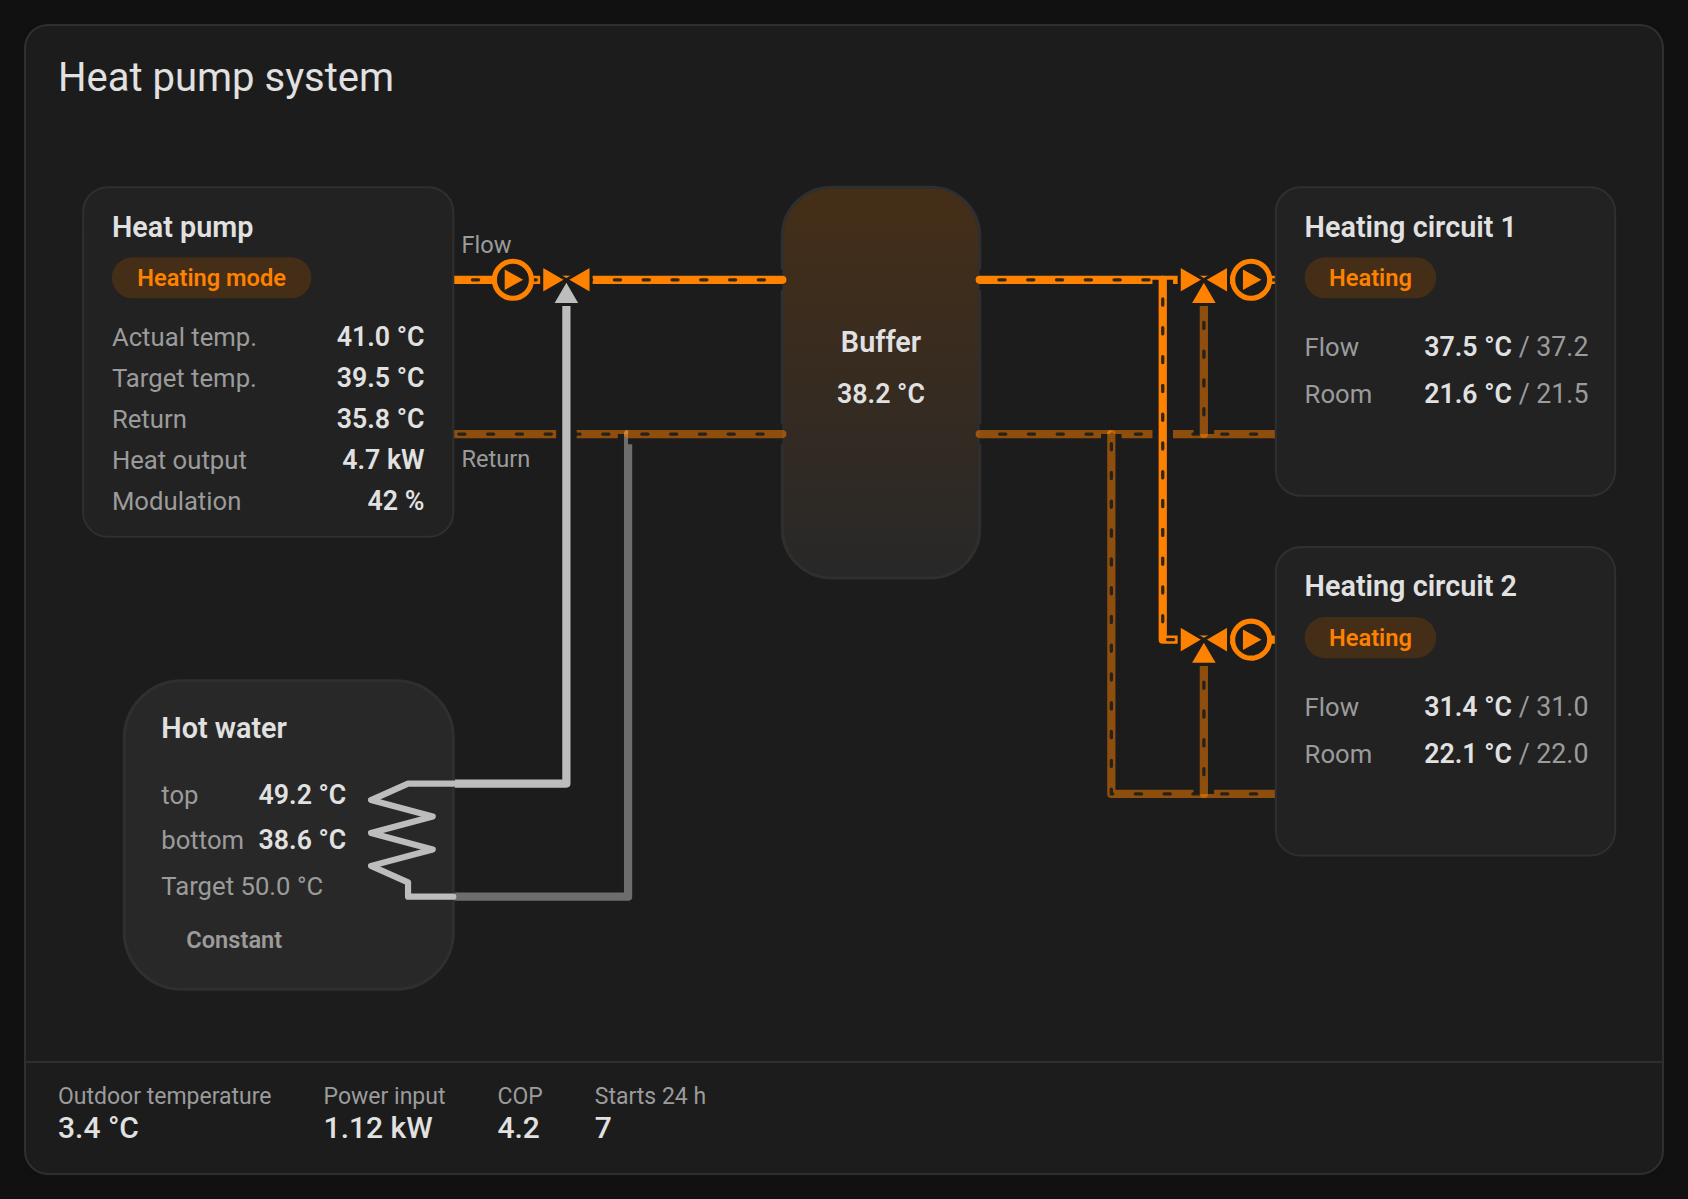
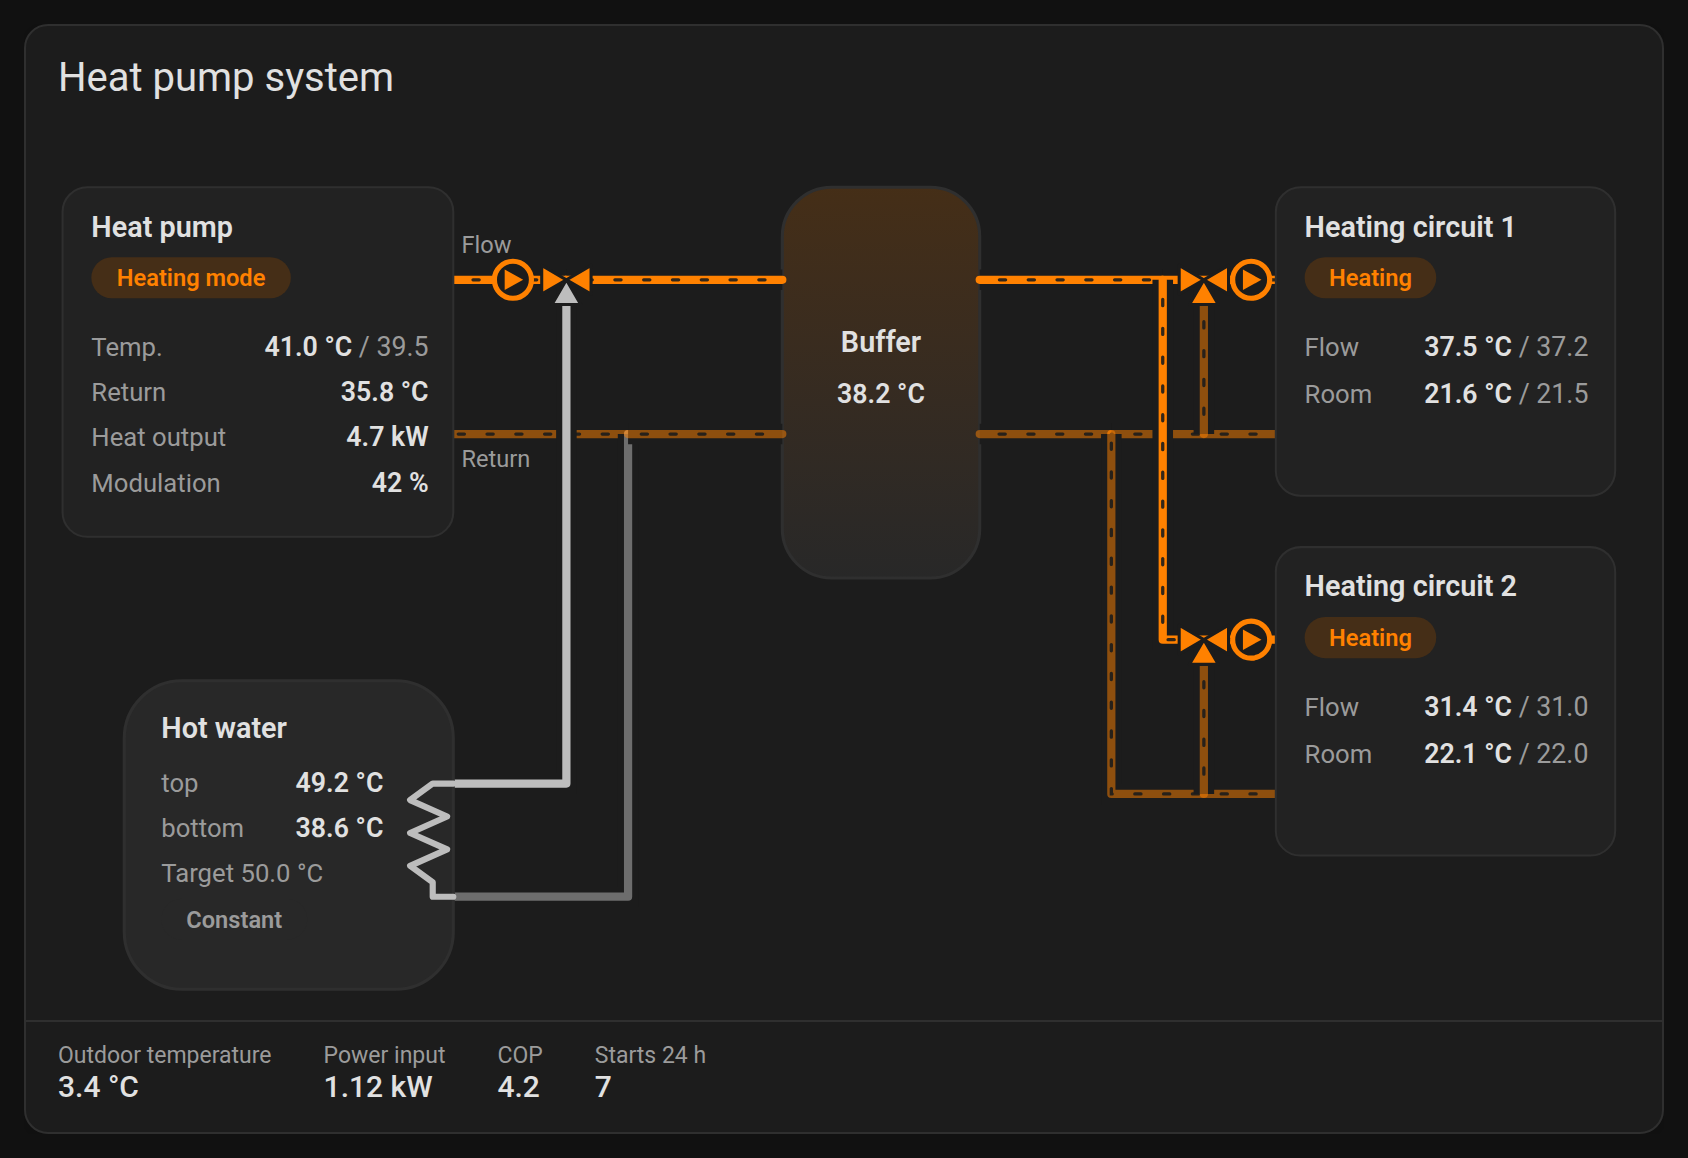
0.4.2b4: system diagram card, hot water temperature bottom (SF2)

diff --git a/custom_components/hoval_unofficial/frontend/hoval-schema-card.js b/custom_components/hoval_unofficial/frontend/hoval-schema-card.js
@@ -25,8 +25,7 @@ const TEXT = {
     circuit: "Heating circuit {n}",
     flow_short: "Flow",
     return_short: "Return",
-    actual_temp: "Actual temp.",
-    target_temp: "Target temp.",
+    temperature: "Temp.",
     return: "Return",
     heat_output: "Heat output",
     cooling_output: "Cooling output",
@@ -36,7 +35,9 @@ const TEXT = {
     top: "top",
     bottom: "bottom",
     middle: "middle",
+    actual_target: "Actual {actual}, target {target}",
     target: "Target",
+    dhw_target_tip: "Loading starts when the top falls below the target and ends when the bottom reaches it.",
     outdoor: "Outdoor temperature",
     power_input: "Power input",
     cop: "COP",
@@ -53,8 +54,7 @@ const TEXT = {
     circuit: "Heizkreis {n}",
     flow_short: "VL",
     return_short: "RL",
-    actual_temp: "Ist-Temperatur",
-    target_temp: "Soll-Temperatur",
+    temperature: "Temperatur",
     return: "Rücklauf",
     heat_output: "Wärmeleistung",
     cooling_output: "Kühlleistung",
@@ -64,7 +64,9 @@ const TEXT = {
     top: "oben",
     bottom: "unten",
     middle: "Mitte",
+    actual_target: "Ist {actual}, Soll {target}",
     target: "Soll",
+    dhw_target_tip: "Die Ladung startet, wenn oben unter den Sollwert fällt, und endet, wenn unten ihn erreicht.",
     outdoor: "Außentemperatur",
     power_input: "Leistungsaufnahme",
     cop: "COP",
@@ -249,19 +251,27 @@ class HovalSchemaCard extends HTMLElement {
 
   // ---- SVG building blocks ----------------------------------------------
 
+  // "actual / target": the target smaller and grey, explained by a tooltip.
+  _withTarget(value, target) {
+    return target !== undefined ? `${esc(value)}<tspan class="soft"> / ${esc(target)}</tspan>` : esc(value);
+  }
+
+  _targetTip(value, target) {
+    return target !== undefined ? this._t("actual_target", { actual: value, target }) : undefined;
+  }
+
   _row(x1, x2, y, label, value, target, entityId) {
     const text =
       `<text class="label" x="${x1}" y="${y}">${esc(label)}</text>` +
-      `<text class="value" x="${x2}" y="${y}" text-anchor="end">${esc(value)}` +
-      (target !== undefined ? `<tspan class="soft"> / ${esc(target)}</tspan>` : "") +
-      `</text>`;
-    return this._spot(x1 - 5, y - 14, x2 - x1 + 10, 20, entityId, text);
+      `<text class="value" x="${x2}" y="${y}" text-anchor="end">${this._withTarget(value, target)}</text>`;
+    return this._spot(x1 - 5, y - 14, x2 - x1 + 10, 20, entityId, text, this._targetTip(value, target));
   }
 
-  _spot(x, y, w, h, entityId, inner) {
-    if (!entityId) return inner;
+  _spot(x, y, w, h, entityId, inner, tip) {
+    const title = tip ? `<title>${esc(tip)}</title>` : "";
+    if (!entityId) return title ? `<g>${title}${inner}</g>` : inner;
     return (
-      `<g class="spot" tabindex="0" role="button" data-entity="${esc(entityId)}">` +
+      `<g class="spot" tabindex="0" role="button" data-entity="${esc(entityId)}">${title}` +
       `<rect class="hit" x="${x}" y="${y}" width="${w}" height="${h}" rx="5"/>${inner}</g>`
     );
   }
@@ -463,7 +473,7 @@ class HovalSchemaCard extends HTMLElement {
         this._pump(588, y, c.color);
     }
 
-    const height = Math.max(hasDhw ? 465 : 250, last ? last.top + CIRCUIT_HEIGHT + 15 : 0);
+    const height = Math.max(hasDhw ? 445 : 250, last ? last.top + CIRCUIT_HEIGHT + 15 : 0);
     return `
       <div class="diagram">
         <svg viewBox="0 0 780 ${height}" role="img" aria-label="${esc(this._t("heat_pump"))}">
@@ -482,19 +492,19 @@ class HovalSchemaCard extends HTMLElement {
     const cooling = mode === "cool";
     const power = cooling ? hp.cooling_power : hp.power;
     const status = statusState ? this._formatState(hp.status) : "—";
+    const target = this._usable(hp.target);
     const rows = [
-      [this._t("actual_temp"), hp.temperature, 1],
-      [this._t("target_temp"), hp.target, 1],
+      [this._t("temperature"), hp.temperature, 1, target ? this._num(target.state) : undefined],
       [this._t("return"), hp.return, 1],
       [this._t(cooling ? "cooling_output" : "heat_output"), power, 1],
       [this._t("modulation"), hp.modulation, 0],
     ].filter(([, id]) => id);
     let svg =
-      `<rect class="box" x="20" y="40" width="180" height="170" rx="12"/>` +
-      `<text class="title" x="34" y="64">${esc(this._t("heat_pump"))}</text>` +
-      this._spot(30, 72, 160, 26, hp.status, this._pill(34, 74, status, mode === "idle" ? "idle" : color, 152));
-    rows.forEach(([label, id, digits], i) => {
-      svg += this._row(34, 186, 117 + i * 20, label, this._value(id, digits), undefined, id);
+      `<rect class="box" x="10" y="40" width="190" height="170" rx="12"/>` +
+      `<text class="title" x="24" y="64">${esc(this._t("heat_pump"))}</text>` +
+      this._spot(20, 72, 170, 26, hp.status, this._pill(24, 74, status, mode === "idle" ? "idle" : color, 162));
+    rows.forEach(([label, id, digits, rowTarget], i) => {
+      svg += this._row(24, 188, 122 + i * 22, label, this._value(id, digits), rowTarget, id);
     });
     return svg;
   }
@@ -554,24 +564,37 @@ class HovalSchemaCard extends HTMLElement {
     const heater = this._usable(dhw.water_heater);
     const attrs = heater ? heater.attributes : {};
     const id = dhw.water_heater;
+    // The controller loads the tank to its target at the (top) sensor SF/SF1.
+    const current = this._temp(attrs.current_temperature);
+    const target = attrs.temperature !== undefined && attrs.temperature !== null ? this._num(attrs.temperature) : undefined;
+    const tip = this._targetTip(current, target);
     let svg =
-      `<rect class="tank" x="40" y="280" width="160" height="${dhw.sg_offset && this._sgActive ? 170 : 150}" rx="28" style="fill:var(--hsc-${loading ? "hot-tint" : "tank"})"/>` +
-      `<path class="pipe c-${loading ? "hot" : "idle"}" style="stroke-width:3" d="M200 330 H178 L160 338 L190 346 L160 354 L190 362 L160 370 L178 378 V385 H200"/>` +
+      `<rect class="tank" x="40" y="280" width="160" height="150" rx="28" style="fill:var(--hsc-${loading ? "hot-tint" : "tank"})"/>` +
+      `<path class="pipe c-${loading ? "hot" : "idle"}" style="stroke-width:3" d="M200 330 H190 L179 338 L197 346 L179 354 L197 362 L179 370 L190 378 V385 H200"/>` +
       `<text class="title" x="58" y="308">${esc(this._t("hot_water"))}</text>`;
+    let pillY;
     if (dhw.bottom) {
+      // With two sensors the target belongs to the tank: loading starts at
+      // the top sensor and ends at the bottom one (SF2, switch-off sensor).
       svg +=
-        this._row(58, 148, 340, this._t("top"), this._temp(attrs.current_temperature), undefined, id) +
-        this._row(58, 148, 362, this._t("bottom"), this._value(dhw.bottom), undefined, dhw.bottom) +
-        this._spot(52, 370, 100, 20, id, `<text class="label" x="58" y="384">${esc(this._t("target"))} ${esc(this._temp(attrs.temperature))}</text>`);
+        this._row(58, 166, 334, this._t("top"), current, undefined, id) +
+        this._row(58, 166, 356, this._t("bottom"), this._value(dhw.bottom), undefined, dhw.bottom) +
+        this._spot(52, 364, 114, 20, id,
+          `<text class="label" x="58" y="378">${esc(this._t("target"))} ${esc(this._temp(attrs.temperature))}</text>`,
+          this._t("dhw_target_tip"));
+      pillY = 386;
     } else {
       svg +=
-        `<text class="small" x="58" y="328">${esc(this._t("middle"))}</text>` +
-        this._spot(52, 330, 100, 34, id, `<text class="big" x="58" y="356">${esc(this._temp(attrs.current_temperature))}</text>`) +
-        this._spot(52, 368, 100, 20, id, `<text class="label" x="58" y="382">${esc(this._t("target"))} ${esc(this._temp(attrs.temperature))}</text>`);
+        `<text class="small" x="58" y="326">${esc(this._t("middle"))}</text>` +
+        this._spot(52, 330, 112, 28, id,
+          `<text class="big" x="58" y="352">${esc(current)}` +
+          (target !== undefined ? `<tspan class="soft target"> / ${esc(target)}</tspan>` : "") +
+          `</text>`, tip);
+      pillY = 368;
     }
     const mode = heater ? this._formatState(id) : "—";
-    svg += this._spot(52, 392, 100, 26, id, this._pill(58, 396, mode, "idle", 96));
-    svg += this._sgBadge(58, 420, dhw.sg_offset);
+    svg += this._spot(52, pillY - 4, 100, 26, id, this._pill(58, pillY, mode, "idle", 96));
+    svg += this._sgBadge(58, pillY + 24, dhw.sg_offset);
     return svg;
   }
 
@@ -649,7 +672,8 @@ const STYLE = `
   .value { font-size: 13px; font-weight: 600; fill: var(--hsc-fg); }
   .soft { font-weight: 400; fill: var(--hsc-muted); }
   .small { font-size: 11.5px; fill: var(--hsc-muted); }
-  .big { font-size: 24px; font-weight: 500; fill: var(--hsc-fg); }
+  .big { font-size: 20px; font-weight: 500; fill: var(--hsc-fg); }
+  .big .target { font-size: 13px; }
   .halo { fill: none; stroke: var(--hsc-card); stroke-width: 10; }
   .pipe { fill: none; stroke-width: 4; stroke-linecap: round; stroke-linejoin: round; }
   .pipe.r { stroke-opacity: .5; }

diff --git a/README.md b/README.md
@@ -534,8 +534,10 @@ default the first one is shown) and `title`.
   while defrosting (the water of the buffer and the heating circuits gives
   off the heat for it), grey when idle. While the tank is loaded (heat pump
   status "Hot water"), the diverting valve points to the hot water tank.
-- Values are shown as "actual / target". Clicking a value opens its
-  more-info dialog with the history.
+- Values are shown as "actual / target" (hover for a tooltip). A hot water
+  tank with two sensors shows its target once for the tank: loading starts
+  when the top sensor falls below it and ends when the bottom sensor
+  reaches it. Clicking a value opens its more-info dialog with the history.
 - The footer shows outdoor temperature, power input, COP and the compressor
   starts within the last 24 hours (from the long-term statistics).
 - While Smart Grid is in preferred operation or forced consumption, a
